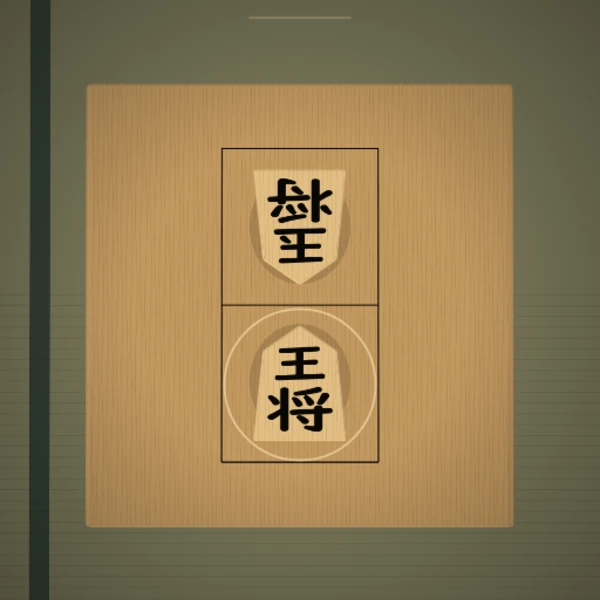
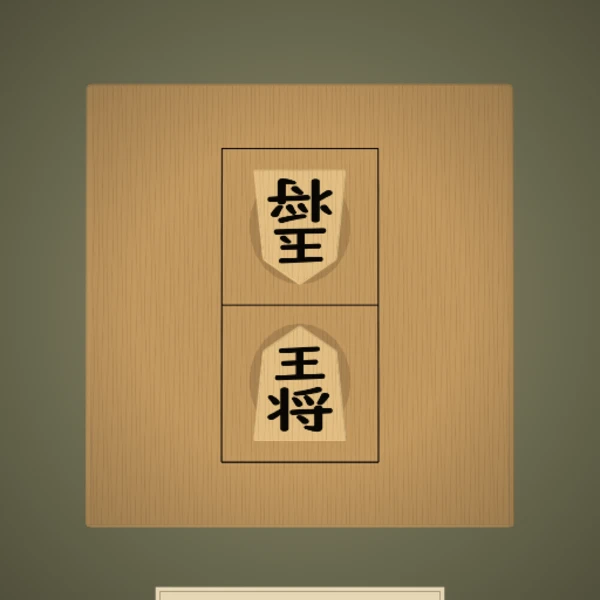
王将棋の開始と先後の確定操作を変更して演出を三倍速にする

diff --git a/games/_oushogi/index.html b/games/_oushogi/index.html
@@ -99,17 +99,18 @@
   var CY = 480;
   var eye, basis, focal, queue, centers = [];
   var still = document.createElement('canvas'), stillKey = '';
-  var shots = [2.1, 2.6, 2.8], duration = 7.5;
+  var shots = [0.7, 2.6/3, 2.8/3], duration = 2.5;
   function place() { CY = H * 0.49; }
   function newRound() {
     state = 'ready'; score = 0; T = 0; elapsed = 0;
     first = null; selected = false; focus = 0; impact = -1; held = false;
   }
-  function start() { first = Math.random() < 0.5; state = 'lottery'; T = 0; }
+  function start() { first = null; state = 'lottery'; T = 0; }
+  function lotteryFirst() { return Math.floor(T / .12) % 2 === 0; }
+  function startButton() { return {x:140,y:H*.79,w:260,h:68}; }
   function capture() { state = 'cinema'; T = 0; impact = -1; selected = false; score = 1; }
   function update(dt) {
     elapsed += dt; T += dt;
-    if (state === 'lottery' && T >= 2.2) { state = first ? 'play' : 'reply'; T = 0; tone(440, 0.18, 0.05); }
     if (state === 'reply' && T >= 1.3) capture();
     if (state === 'cinema') {
       var s = shot();
@@ -133,7 +134,8 @@
   function hit(b,x,y) { return x >= b.x && x <= b.x+b.w && y >= b.y && y <= b.y+b.h; }
   function down(x,y) {
     audioOn();
-    if (state === 'ready') { if (x == null || hit({x:120,y:CY-190,w:300,h:390},x,y)) start(); return; }
+    if (state === 'ready') { if (x == null || hit(startButton(),x,y)) start(); return; }
+    if (state === 'lottery') { first=lotteryFirst(); state=first?'play':'reply'; T=0; tone(440,.18,.05); return; }
     if (state === 'result') {
       var b = x == null ? buttons()[focus] : buttons().filter(function(b){return hit(b,x,y);})[0];
       if (b && b.id === 'retry') newRound();
@@ -202,10 +204,8 @@
     else if(cinematic) camera([3.5-p*.7,-7.8,11.8],[0,0,-.12],990+120*p);
     else camera([0,-.1,11.5],[0,0,0],Math.min(820,H*.94));
     queue=[];
-    // 畳と縁。ゲームのマスは盤の二つだけ。
+    // 線のない床。
     flat([[-12,-12,-1.58],[12,-12,-1.58],[12,12,-1.58],[-12,12,-1.58]],'#79775a');
-    for(var j=-12;j<12;j+=.16)flat([[-12,j,-1.578],[12,j,-1.578],[12,j+.012,-1.578],[-12,j+.012,-1.578]],'rgba(38,43,26,.15)');
-    flat([[-4,-12,-1.572],[-3.7,-12,-1.572],[-3.7,12,-1.572],[-4,12,-1.572]],'#303c32');
     flat([[-2.78,-2.74,-1.57],[3.10,-2.74,-1.57],[3.10,3.22,-1.57],[-2.78,3.22,-1.57]],'rgba(21,24,14,.24)');
     model(MODEL.board,{x:0,y:0,z:0,r:0},1);
     var progress=cinematic?ease((p-.12)/.58):state==='result'?1:0;
@@ -259,23 +259,18 @@
     var shade=ctx.createRadialGradient(270,CY,150,270,CY,H*.7);
     shade.addColorStop(0,'rgba(16,18,12,0)');shade.addColorStop(1,'rgba(16,18,12,.75)');ctx.fillStyle=shade;ctx.fillRect(0,0,W,H);
     if(state==='cinema'){
-      var s=shot(),opening=Math.min(1,T/.3);ctx.fillStyle='#11110e';ctx.fillRect(0,0,W,80*opening);ctx.fillRect(0,H-80*opening,W,80*opening);
+      var s=shot(),opening=Math.min(1,T/.1);ctx.fillStyle='#11110e';ctx.fillRect(0,0,W,80*opening);ctx.fillRect(0,H-80*opening,W,80*opening);
       var flash=Math.max(0,1-Math.abs(s.progress-.70)*35);if(flash){ctx.fillStyle='rgba(255,240,203,'+(flash*.22)+')';ctx.fillRect(0,80,W,H-160);}
       return;
     }
-    text('王将棋',270,Math.max(91,H*.13),52);
-    ctx.strokeStyle='#a89a77';ctx.lineWidth=1;ctx.beginPath();ctx.moveTo(224,H*.13+46);ctx.lineTo(316,H*.13+46);ctx.stroke();
     if(state==='ready'){
-      var a=.35+.18*Math.sin(elapsed*2);ctx.strokeStyle='rgba(255,239,192,'+a+')';ctx.lineWidth=2;
-      var c=centers[0];ctx.beginPath();ctx.arc(c.x,c.y,68,0,Math.PI*2);ctx.stroke();
+      var b=startButton();ctx.fillStyle='#e6d7b7';ctx.fillRect(b.x,b.y,b.w,b.h);
+      ctx.strokeStyle='#a89a77';ctx.strokeRect(b.x+4,b.y+4,b.w-8,b.h-8);
+      text('対局開始',270,b.y+b.h/2,28,'#30291e');
     }
-    if(state==='lottery'){
-      var flip=Math.floor(T*(T<1.4?12:5))%2===0;
-      plaque(flip?'先手':'後手',270,H*.77,true);
-    }
-    if(state==='play'||state==='reply'){
-      plaque(first?'先手':'後手',270,H*.77,first);
-      plaque(first?'後手':'先手',270,H*.21,!first);
+    if(state==='lottery'||state==='play'||state==='reply'){
+      var turn=state==='lottery'?lotteryFirst():first;
+      text('あなたは'+(turn?'先攻':'後攻')+'です',270,H*.79+34,30);
     }
     if(state==='result'){
       ctx.fillStyle='rgba(19,19,15,.76)';ctx.fillRect(0,H*.25,W,H*.7);
@@ -289,7 +284,7 @@
   }
   window.__probe={
     now:function(){return {state:state,score:score,W:W,H:H,first:first,selected:selected,camera:state==='cinema'?shot().index:null,
-      time:T,cells:2,pieces:state==='result'?1:2,playerPiece:'王将',opponentPiece:'玉将',centers:centers,buttons:buttons(),duration:duration};},
+      time:T,cells:2,pieces:state==='result'?1:2,playerPiece:'王将',opponentPiece:'玉将',centers:centers,buttons:buttons(),duration:duration,startButton:startButton(),lotteryFirst:lotteryFirst()};},
     step:function(n){for(var i=0;i<(n||1);i++){update(1/60);draw();}},reset:newRound
   };
   /* ============ ループ ============ */

diff --git a/games/_oushogi/_source/game.js b/games/_oushogi/_source/game.js
@@ -4,17 +4,18 @@
   var CY = 480;
   var eye, basis, focal, queue, centers = [];
   var still = document.createElement('canvas'), stillKey = '';
-  var shots = [2.1, 2.6, 2.8], duration = 7.5;
+  var shots = [0.7, 2.6/3, 2.8/3], duration = 2.5;
   function place() { CY = H * 0.49; }
   function newRound() {
     state = 'ready'; score = 0; T = 0; elapsed = 0;
     first = null; selected = false; focus = 0; impact = -1; held = false;
   }
-  function start() { first = Math.random() < 0.5; state = 'lottery'; T = 0; }
+  function start() { first = null; state = 'lottery'; T = 0; }
+  function lotteryFirst() { return Math.floor(T / .12) % 2 === 0; }
+  function startButton() { return {x:140,y:H*.79,w:260,h:68}; }
   function capture() { state = 'cinema'; T = 0; impact = -1; selected = false; score = 1; }
   function update(dt) {
     elapsed += dt; T += dt;
-    if (state === 'lottery' && T >= 2.2) { state = first ? 'play' : 'reply'; T = 0; tone(440, 0.18, 0.05); }
     if (state === 'reply' && T >= 1.3) capture();
     if (state === 'cinema') {
       var s = shot();
@@ -38,7 +39,8 @@
   function hit(b,x,y) { return x >= b.x && x <= b.x+b.w && y >= b.y && y <= b.y+b.h; }
   function down(x,y) {
     audioOn();
-    if (state === 'ready') { if (x == null || hit({x:120,y:CY-190,w:300,h:390},x,y)) start(); return; }
+    if (state === 'ready') { if (x == null || hit(startButton(),x,y)) start(); return; }
+    if (state === 'lottery') { first=lotteryFirst(); state=first?'play':'reply'; T=0; tone(440,.18,.05); return; }
     if (state === 'result') {
       var b = x == null ? buttons()[focus] : buttons().filter(function(b){return hit(b,x,y);})[0];
       if (b && b.id === 'retry') newRound();
@@ -107,10 +109,8 @@
     else if(cinematic) camera([3.5-p*.7,-7.8,11.8],[0,0,-.12],990+120*p);
     else camera([0,-.1,11.5],[0,0,0],Math.min(820,H*.94));
     queue=[];
-    // 畳と縁。ゲームのマスは盤の二つだけ。
+    // 線のない床。
     flat([[-12,-12,-1.58],[12,-12,-1.58],[12,12,-1.58],[-12,12,-1.58]],'#79775a');
-    for(var j=-12;j<12;j+=.16)flat([[-12,j,-1.578],[12,j,-1.578],[12,j+.012,-1.578],[-12,j+.012,-1.578]],'rgba(38,43,26,.15)');
-    flat([[-4,-12,-1.572],[-3.7,-12,-1.572],[-3.7,12,-1.572],[-4,12,-1.572]],'#303c32');
     flat([[-2.78,-2.74,-1.57],[3.10,-2.74,-1.57],[3.10,3.22,-1.57],[-2.78,3.22,-1.57]],'rgba(21,24,14,.24)');
     model(MODEL.board,{x:0,y:0,z:0,r:0},1);
     var progress=cinematic?ease((p-.12)/.58):state==='result'?1:0;
@@ -164,23 +164,18 @@
     var shade=ctx.createRadialGradient(270,CY,150,270,CY,H*.7);
     shade.addColorStop(0,'rgba(16,18,12,0)');shade.addColorStop(1,'rgba(16,18,12,.75)');ctx.fillStyle=shade;ctx.fillRect(0,0,W,H);
     if(state==='cinema'){
-      var s=shot(),opening=Math.min(1,T/.3);ctx.fillStyle='#11110e';ctx.fillRect(0,0,W,80*opening);ctx.fillRect(0,H-80*opening,W,80*opening);
+      var s=shot(),opening=Math.min(1,T/.1);ctx.fillStyle='#11110e';ctx.fillRect(0,0,W,80*opening);ctx.fillRect(0,H-80*opening,W,80*opening);
       var flash=Math.max(0,1-Math.abs(s.progress-.70)*35);if(flash){ctx.fillStyle='rgba(255,240,203,'+(flash*.22)+')';ctx.fillRect(0,80,W,H-160);}
       return;
     }
-    text('王将棋',270,Math.max(91,H*.13),52);
-    ctx.strokeStyle='#a89a77';ctx.lineWidth=1;ctx.beginPath();ctx.moveTo(224,H*.13+46);ctx.lineTo(316,H*.13+46);ctx.stroke();
     if(state==='ready'){
-      var a=.35+.18*Math.sin(elapsed*2);ctx.strokeStyle='rgba(255,239,192,'+a+')';ctx.lineWidth=2;
-      var c=centers[0];ctx.beginPath();ctx.arc(c.x,c.y,68,0,Math.PI*2);ctx.stroke();
+      var b=startButton();ctx.fillStyle='#e6d7b7';ctx.fillRect(b.x,b.y,b.w,b.h);
+      ctx.strokeStyle='#a89a77';ctx.strokeRect(b.x+4,b.y+4,b.w-8,b.h-8);
+      text('対局開始',270,b.y+b.h/2,28,'#30291e');
     }
-    if(state==='lottery'){
-      var flip=Math.floor(T*(T<1.4?12:5))%2===0;
-      plaque(flip?'先手':'後手',270,H*.77,true);
-    }
-    if(state==='play'||state==='reply'){
-      plaque(first?'先手':'後手',270,H*.77,first);
-      plaque(first?'後手':'先手',270,H*.21,!first);
+    if(state==='lottery'||state==='play'||state==='reply'){
+      var turn=state==='lottery'?lotteryFirst():first;
+      text('あなたは'+(turn?'先攻':'後攻')+'です',270,H*.79+34,30);
     }
     if(state==='result'){
       ctx.fillStyle='rgba(19,19,15,.76)';ctx.fillRect(0,H*.25,W,H*.7);
@@ -194,7 +189,7 @@
   }
   window.__probe={
     now:function(){return {state:state,score:score,W:W,H:H,first:first,selected:selected,camera:state==='cinema'?shot().index:null,
-      time:T,cells:2,pieces:state==='result'?1:2,playerPiece:'王将',opponentPiece:'玉将',centers:centers,buttons:buttons(),duration:duration};},
+      time:T,cells:2,pieces:state==='result'?1:2,playerPiece:'王将',opponentPiece:'玉将',centers:centers,buttons:buttons(),duration:duration,startButton:startButton(),lotteryFirst:lotteryFirst()};},
     step:function(n){for(var i=0;i<(n||1);i++){update(1/60);draw();}},reset:newRound
   };
   /* ============ ループ ============ */

diff --git a/games/_tools/tests/oushogi.js b/games/_tools/tests/oushogi.js
@@ -9,15 +9,17 @@ assert(!meshes.opponent.some(function(o){return o.name==='墨文字王';}));
 assert.equal(meshes.board.filter(function(o){return o.name.indexOf('盤の線')===0;}).length,3);
 function advance(g,n){for(var i=0;i<n;i++){g.step(1);g.drawn.length=0;}}
 function begin(g,first,kind){
-  var random=Math.random;
-  try {
-    Math.random=function(){return first?.1:.9;};
-    if(kind==='tap')g.tap(g.probe.now().centers[0].x,g.probe.now().centers[0].y);
-    else if(kind==='pad'){g.pad({press:true});advance(g,1);g.pad({press:false});advance(g,1);}
-    else g.press(' ');
-  } finally {Math.random=random;}
+  var b=g.probe.now().startButton;
+  if(kind==='tap')g.tap(b.x+30,b.y+30);
+  else if(kind==='pad'){g.pad({press:true});advance(g,1);g.pad({press:false});advance(g,1);}
+  else g.press(' ');
   assert.equal(g.probe.now().state,'lottery');
-  advance(g,133);assert.equal(g.probe.now().first,first);
+  advance(g,600);assert.equal(g.probe.now().state,'lottery');
+  while(g.probe.now().lotteryFirst!==first)advance(g,1);
+  if(kind==='tap')g.tap(270,400);
+  else if(kind==='pad'){g.pad({press:true});advance(g,1);g.pad({press:false});advance(g,1);}
+  else g.press(' ');
+  assert.equal(g.probe.now().first,first);
 }
 function confirm(g,kind,target){
   if(kind==='tap'){var p=g.probe.now().centers[target];g.tap(p.x,p.y);}
@@ -43,7 +45,7 @@ function confirm(g,kind,target){
     assert.equal(g.probe.now().state,'result');
     assert.equal(g.probe.now().score,1);assert.equal(g.probe.now().pieces,1);
     assert.equal(g.probe.now().first,first);
-    assert(frames>=440 && frames<=452);
+    assert(frames>=140 && frames<=152);
     var bs=g.probe.now().buttons;
     g.tap(bs[1].x+30,bs[1].y+30);
     assert.equal(g.shared[0],'王将棋 '+(first?'勝ち':'負け')+' 1手');
@@ -64,4 +66,4 @@ load.SHAPES.forEach(function(v){
   assert.equal(g.probe.now().state,'ready');
   console.log('OK '+v.join('×')+' 押しどころの中心間 '+Math.round(Math.hypot(a.x-b.x,a.y-b.y)))
 });
-console.log('問題なし。くじ2.2秒、後手の待ち1.3秒、決着の演出7.5秒。');
+console.log('問題なし。先後はタップ確定、後手の待ち1.3秒、決着の演出2.5秒。');

diff --git a/games/_tools/tests/oushogi-view.js b/games/_tools/tests/oushogi-view.js
@@ -14,8 +14,8 @@ window.addEventListener('load',async function(){
   function press(){window.dispatchEvent(new KeyboardEvent('keydown',{key:' ',code:'Space'}));window.dispatchEvent(new KeyboardEvent('keyup',{key:' ',code:'Space'}));}
   p.step(1);shot();
   var rand=Math.random;Math.random=function(){return .1;};press();Math.random=rand;
-  p.step(133);press();press();
-  var start=performance.now();p.step(70);shot();p.step(140);shot();p.step(140);shot();p.step(110);shot();
+  p.step(15);press();press();press();
+  var start=performance.now();p.step(23);shot();p.step(47);shot();p.step(47);shot();p.step(40);shot();
   if(p.now().state!=='result')throw Error('結果に到達しません');
   await fetch('/__save',{method:'POST',body:JSON.stringify({image:sheet.toDataURL('image/png'),ms:performance.now()-start})});
  }catch(e){await fetch('/__fail',{method:'POST',body:String(e.stack||e)});}
@@ -29,7 +29,7 @@ var server=http.createServer(function(req,res){
    if(req.url==='/__fail'){console.error(raw);finish(1);return;}
    var data=JSON.parse(raw),target=path.join(out,'五場面.png');
    fs.writeFileSync(target,Buffer.from(data.image.split(',')[1],'base64'));
-   console.log(target);console.log('460コマの実描画: '+Math.round(data.ms)+'ミリ秒');finish(0);
+   console.log(target);console.log('157コマの実描画: '+Math.round(data.ms)+'ミリ秒');finish(0);
   });return;
  }
  var file=path.resolve(root,'.'+decodeURIComponent(req.url.split('?')[0]));

diff --git a/games/_oushogi/_source/README.md b/games/_oushogi/_source/README.md
@@ -12,13 +12,13 @@
 
 ## 決めたこと
 
-先後は同じ確率のくじ。下の駒が自分です。先手なら自分の駒、相手のマスの順に触って一手。
+「対局開始」を押すと「あなたは先攻です」「あなたは後攻です」が0.12秒ごとに入れ替わり、タップで表示中の順番を確定します。自動確定はしません。下の駒が自分です。先手なら自分の駒、相手のマスの順に触って一手。
 スペースまたはジョイパッドのボタンでも二回の入力で同じ一手を指せます。
 後手なら相手が自動で指します。どちらも一手で決着し、同じ一手を三方向から見せます。
 
-くじ2.2秒、相手の思考1.3秒、三つの視点は2.1秒・2.6秒・2.8秒、合計7.5秒です。
+相手の思考1.3秒、三つの視点は約0.7秒・0.87秒・0.93秒、合計2.5秒です。
 盤の押しどころの中心間はゲーム座標で約132〜148、結果ボタンの高さは68です。
-表示する文字は、依頼された題名・駒の文字と、承諾済みの「先手」「後手」「勝ち」「負け」「1手」、共通の結果ボタンのみです。
+画面内の題名と畳の線は表示しません。文字は「対局開始」「あなたは先攻です」「あなたは後攻です」、駒の文字、結果と共通ボタンのみです。相手の順番は表示しません。
 
 初期カメラは真上から盤全体を見下ろします。盤は幅5.6・奥行5.8・厚さ0.88、八角形の脚付き。
 マスの幅2.04・全長4.08は保ち、盤の周囲だけを広げています。
